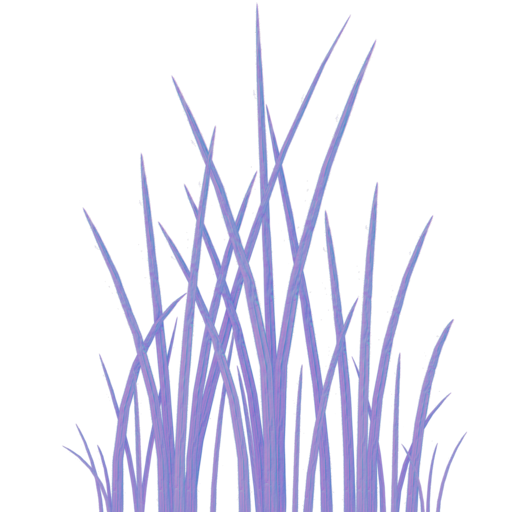
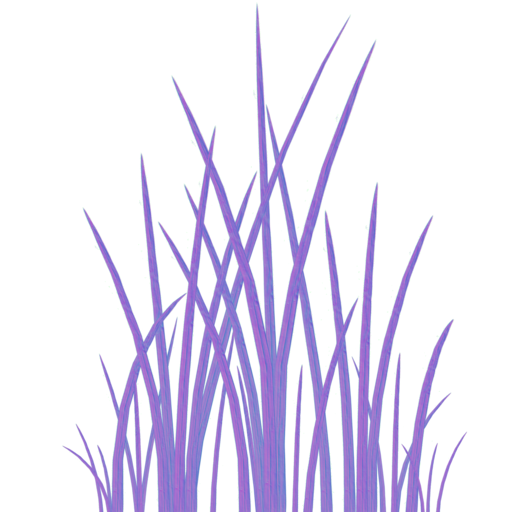
forest scene update

diff --git a/examples/forest_scene.rs b/examples/forest_scene.rs
@@ -12,6 +12,7 @@ use bevy::{
     prelude::*,
     window::PresentMode,
 };
+use bevy::pbr::VolumetricLight;
 
 fn main() {
     App::new()
@@ -51,12 +52,12 @@ fn spawn_ground(
 ) {
     let plane_mesh = meshes.add(Plane3d::new(Vec3::Y, Vec2::splat(1.0)));
     let lod_mesh = lod_mesh::LodMesh {
-        // l1: Some(asset_server.load("models/forest_ground_oak_pine_vol2/ground_l1_l2.glb#Mesh0/Primitive0")),
-        // l2: Some(asset_server.load("models/forest_ground_oak_pine_vol2/ground_l1_l2.glb#Mesh1/Primitive0")),
-        // l3: Some(plane_mesh),
-        l1: Some(plane_mesh.clone()),
-        l2: Some(plane_mesh.clone()),
+        l1: Some(asset_server.load("models/forest_ground_oak_pine_vol2/ground_l1_l2.glb#Mesh0/Primitive0")),
+        l2: Some(asset_server.load("models/forest_ground_oak_pine_vol2/ground_l1_l2.glb#Mesh1/Primitive0")),
         l3: Some(plane_mesh),
+        // l1: Some(plane_mesh.clone()),
+        // l2: Some(plane_mesh.clone()),
+        // l3: Some(plane_mesh),
     };
 
     let lod_distance = lod_distance::LodDistances::new(15.0, 30.0, 500.0);
@@ -122,7 +123,7 @@ fn setup_light(mut commands: Commands) {
             ..default()
         },
         ..default()
-    });
+    }).insert(VolumetricLight::default());
 }
 
 fn spawn_trees(
@@ -202,10 +203,9 @@ fn spawn_trees(
 fn spawn_grass(
     mut commands: Commands,
     asset_server: Res<AssetServer>,
-    mut meshes: ResMut<Assets<Mesh>>,
     mut materials: ResMut<Assets<StandardMaterial>>,
 ) {
-    let lod_distance = lod_distance::LodDistances::new(30.0, 50.0, 200.0);
+    let lod_distance = lod_distance::LodDistances::new(50.0, 100.0, 100.0001);
 
     let lod_mesh_grass = lod_mesh::LodMesh {
         l1: Some(asset_server.load("models/grass/grass.glb#Mesh0/Primitive0")),
@@ -213,13 +213,25 @@ fn spawn_grass(
         l3: Some(Handle::default()),
     };
 
-    let grass_material = materials.add(StandardMaterial {
-        base_color_texture: Some(asset_server.load("models/grass/512/Grass.png")),
-        metallic_roughness_texture: Some(asset_server.load("models/grass/512/Grass_Roughness.png")),
-        normal_map_texture: Some(asset_server.load("models/grass/512/Grass_Normal.png")),
-        alpha_mode: AlphaMode::AlphaToCoverage,
-        ..default()
-    });
+    let lod_pbr_grass = lod_pbr::LodPbr {
+        l1: Some(materials.add(StandardMaterial {
+            base_color_texture: Some(asset_server.load("models/grass/512/Grass.png")),
+            metallic_roughness_texture: Some(asset_server.load("models/grass/512/Grass_Roughness.png")),
+            normal_map_texture: Some(asset_server.load("models/grass/512/Grass_Normal.png")),
+            alpha_mode: AlphaMode::AlphaToCoverage,
+            double_sided: true,
+            ..default()
+        })),
+        l2: Some(materials.add(StandardMaterial {
+            base_color_texture: Some(asset_server.load("models/grass/32/Grass.png")),
+            metallic_roughness_texture: Some(asset_server.load("models/grass/512/Grass_Roughness.png")),
+            normal_map_texture: Some(asset_server.load("models/grass/32/Grass_Normal.png")),
+            alpha_mode: AlphaMode::AlphaToCoverage,
+            double_sided: true,
+            ..default()
+        })),
+        l3: Some(Handle::default()),
+    };
 
     let mut rng = rand::thread_rng();
 
@@ -238,11 +250,11 @@ fn spawn_grass(
             if rng.gen() && rng.gen() {
                 commands.spawn((
                     PbrBundle {
-                        material: grass_material.clone(),
                         transform: grass_transform,
                         ..Default::default()
                     },
                     lod_mesh_grass.clone(),
+                    lod_pbr_grass.clone(),
                     lod_distance.clone()
                 ));
             }

diff --git a/examples/cam.rs b/examples/cam.rs
@@ -1,6 +1,7 @@
 use bevy::prelude::*;
 use bevy::core_pipeline::Skybox;
-use bevy::pbr::VolumetricFogSettings;
+use bevy::pbr::{ShadowFilteringMethod,VolumetricFogSettings};
+use bevy::render::texture::CompressedImageFormats;
 
 #[derive(Component)]
 pub struct CamMove {
@@ -14,11 +15,9 @@ pub struct CamMove {
 pub fn camera_setup(
     mut commands: Commands,
 ) {
-
     // Camera in 3D space.
     commands.spawn((
         Camera3dBundle {
-            transform: Transform::from_xyz(-40.0, 10.0, -30.5).looking_at(Vec3::ZERO, Vec3::Y),
             camera: Camera {
                 hdr: true,
                 ..Default::default()
@@ -32,16 +31,18 @@ pub fn camera_setup(
             progress: 0.0,
             speed: 0.04,
         },
-        bevy::core_pipeline::bloom::BloomSettings::NATURAL
+        bevy::core_pipeline::bloom::BloomSettings::NATURAL,
         // Skybox {
         //     image: asset_server.load(".jpeg"),
         //     brightness: 1000.0,
         // },
-        // VolumetricFogSettings {
-        //     // This value is explicitly set to 0 since we have no environment map light
-        //     ambient_intensity: 0.0,
-        //     ..default()
-        // },
+        VolumetricFogSettings {
+            ambient_intensity: 0.0,
+            light_intensity: 0.1,
+            ..default()
+        },
+        ShadowFilteringMethod::Temporal //Hardware2x2,
+
     ));
 }
 
